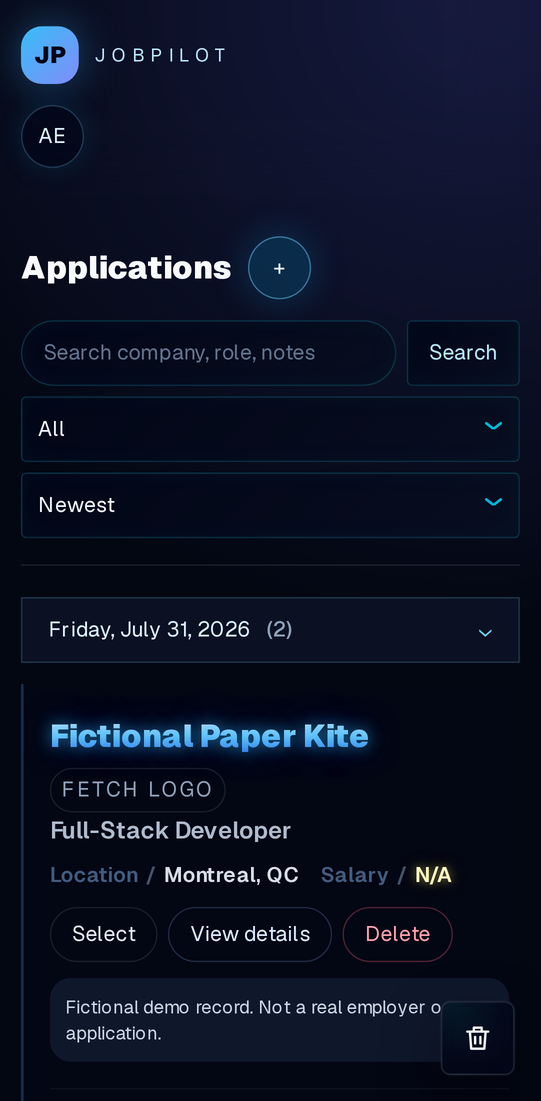
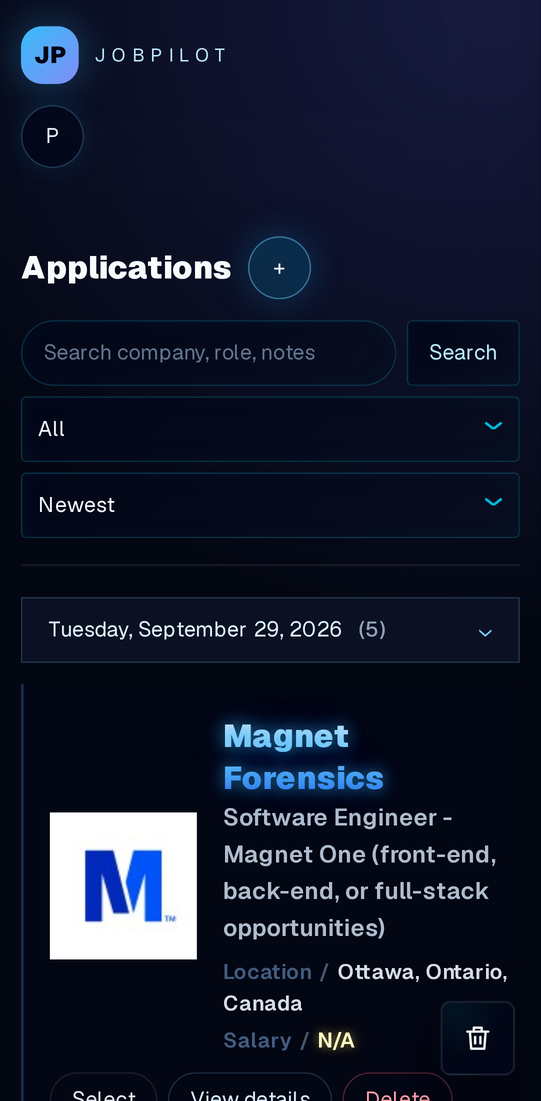
Show a real job search in the README walkthrough and mobile screenshot

diff --git a/README.md b/README.md
@@ -9,10 +9,11 @@ JobPilot is a self-hosted job application tracker built with Next.js, Prisma,
 and SQLite. It keeps applications, notes, interviews, email logs, and documents
 in one place. The data stays on the machine or server running the application.
 
-![Searching applications, opening one, and viewing its interview and notes](docs/images/walkthrough.gif)
+![Scrolling the dashboard, searching for an application, and opening its job description](docs/images/walkthrough.gif)
 
-<sub>All screenshots use the fictional demo seed described in the
-[demo capture guide](docs/demo-capture.md).</sub>
+<sub>The walkthrough and the mobile screenshot show my own job search. The
+application detail and interview screenshots use the fictional demo seed
+described in the [demo capture guide](docs/demo-capture.md).</sub>
 
 ## Features
 
